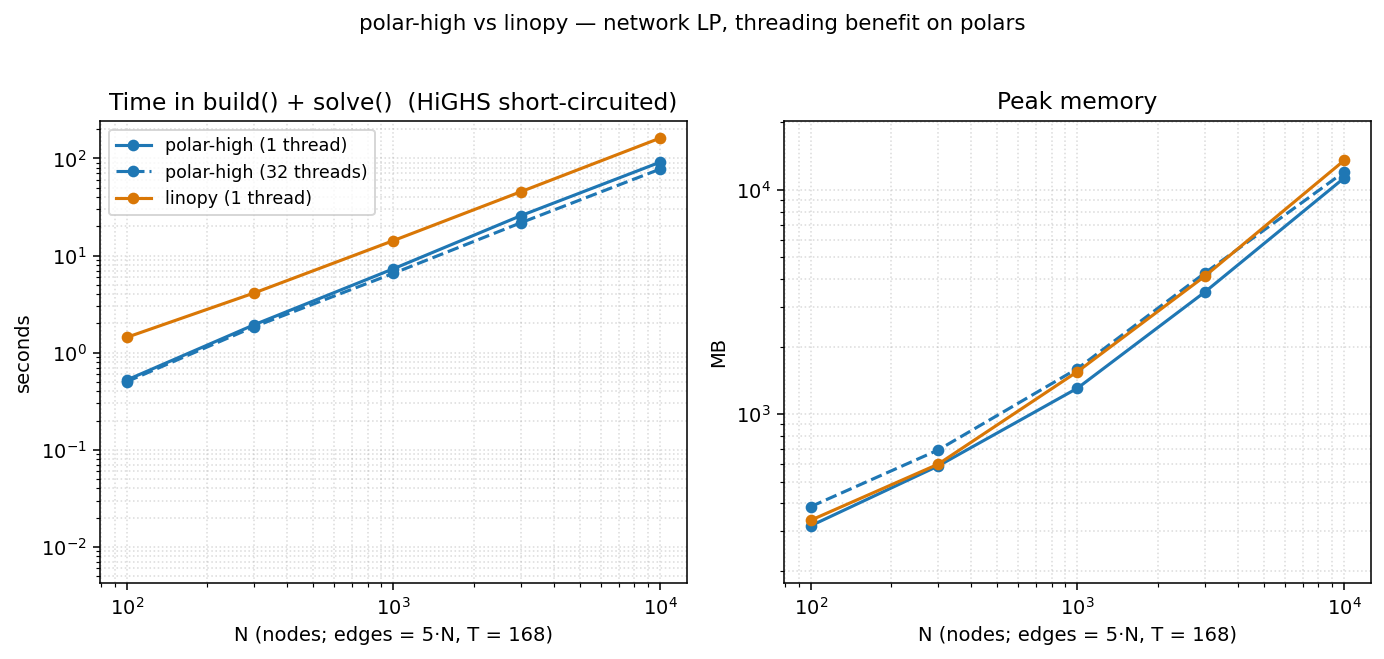
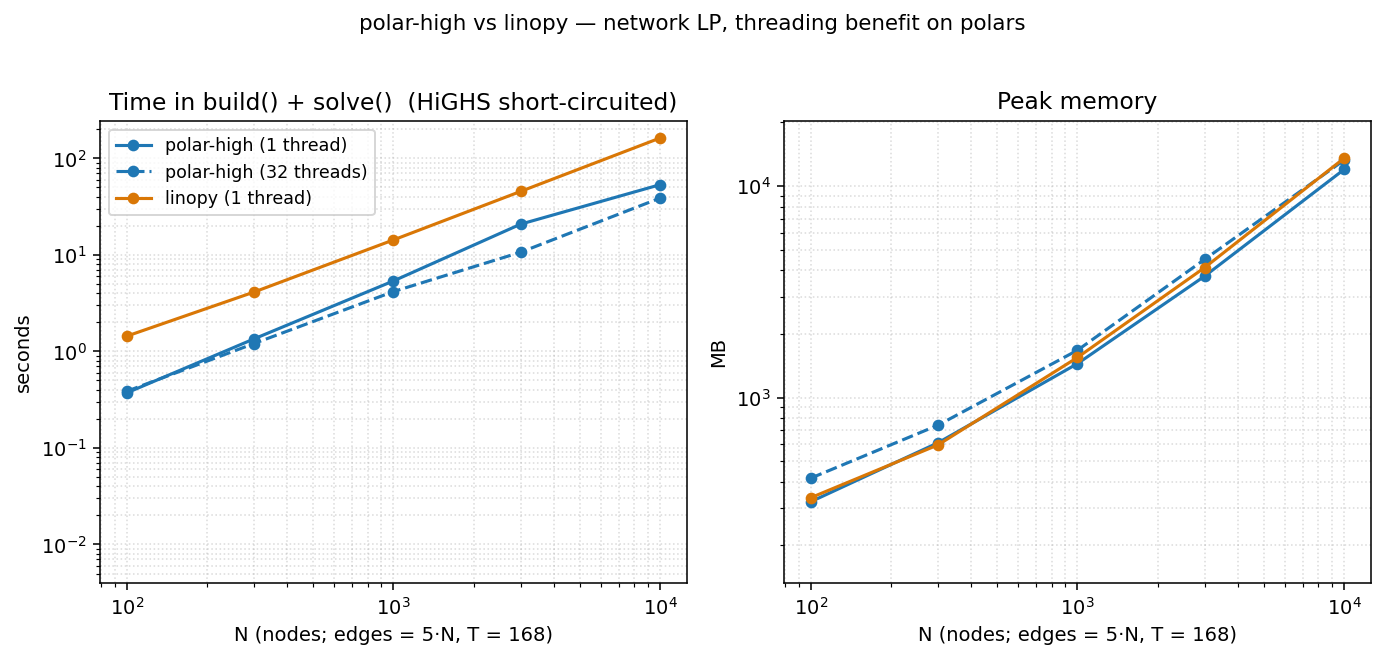
docs(benchmark): refresh page with cgroup peaks + two polar modes side-by-side
Numbers and plots reflect the v2.3.0 polar-high engine measured with
the new cgroup-instrumented harness (kernel-level memory.peak in a
per-cell systemd-run --user --scope). The framing changes:

* Headline table at N=3000 dense build-only now shows both polar
  modes (regular + save_memory) alongside linopy and Pyomo, so the
  reader sees the trade-off directly instead of choosing a "fair"
  baseline mode for the cross-tool comparison.
* Side-by-side polar-only table refreshed cell-by-cell; the prose
  now describes what the trade-off looked like at each cell rather
  than claiming any categorical "save_memory always helps" rule
  (the network N=10000 cell shows it doesn't).
* "Measuring memory" section leads with ``cgroup_peak_mb`` —
  what the OOM killer would charge against a budget — and demotes
  ``peak_rss_mb`` to a process-level / inflated-at-small-N note.
* Network LP section: both polar modes shown at N=10000, with the
  explicit observation that save_memory ends up slightly higher
  peak than regular on this cell.
* Threading table: network LP single-thread vs 32-thread numbers
  refreshed; the peak-grows-with-threads claim now uses the
  observed ~15% delta.
* Reproducing section: documents the four polar tool ids and the
  ``systemd-run --user --scope`` cgroup wrapper, including the
  automatic fallback when systemd-run isn't available.

The five PNGs are regenerated from ``benchmark/results/cgroup/*.csv``
through ``benchmark/plot.py``.

diff --git a/docs/compare/benchmark.md b/docs/compare/benchmark.md
@@ -36,18 +36,24 @@ s.t. x[i,j] - y[i,j] >= i          for i,j ∈ {1,…,N}
 Variables: `2·N²`. Constraints: `2·N²`. Closed-form optimum
 `obj = N²·(N+1)`, used as the cross-tool correctness anchor.
 
-At N=3000 (an 18 M-variable LP):
+polar-high exposes two modes that trade wall time against peak
+memory (see *Two modes* below for the mechanics); the headline
+shows both side by side. At N=3000 (an 18 M-variable LP):
 
-| | total time | peak RSS | p50 during solve | post-trim |
+| | total time | peak | p50 during solve | post-trim |
 |---|---:|---:|---:|---:|
-| polar-high (save_memory=True) | 123 s | 13.4 GB | 10.4 GB | 5.5 GB |
-| linopy (io_api="lp") | 296 s | 22.4 GB | 2.0 GB | 5.9 GB |
-| Pyomo | (caps at N=1000) | 4.6 GB at N=1000 | 3.8 GB at N=1000 | 1.8 GB at N=1000 |
+| polar-high (regular, default) | 86 s | 16.1 GB | 10.9 GB | 5.9 GB |
+| polar-high (save_memory=True) | 131 s | 15.1 GB | 10.3 GB | 6.2 GB |
+| linopy (io_api="lp") | 300 s | 23.7 GB | 2.0 GB | 6.0 GB |
+| Pyomo | caps at N=1000 | 4.6 GB at N=1000 | 3.8 GB at N=1000 | 1.9 GB at N=1000 |
 
-polar-high is roughly 2.4× faster than linopy and ~40 % lower peak
-RSS. The memory comparison depends on which column you read — see
-*Measuring memory* below for how to choose, and the *Two modes*
-section for the warm-restart trade-off this benchmark makes. Pyomo's
+Memory numbers are kernel-level `cgroup memory.peak` — the same
+accounting the OOM killer would use against a memory budget. See
+*Measuring memory* below for the column choices. Both polar modes
+finish 2.3×–3.5× faster than linopy on this column with peak ~30 %
+below linopy; on this cell the `regular` vs `save_memory` swap costs
++52 % time for −6 % peak, a much milder shape than on the full HiGHS
+solve where it's +75 % time for −26 % peak (see *Two modes*). Pyomo's
 per-coefficient Python overhead makes it unable to keep up past
 N≈1000 in our 10-minute timeout.
 
@@ -58,9 +64,7 @@ polar-high supports **warm starts** and **re-solves** off the same
 rebuilding the matrix). That capability requires retaining the
 polars / numpy source-of-truth in memory through `solve()` and after
 it returns, *and* keeping the live `Highs` instance with its basis
-across calls. linopy and Pyomo don't retain a warm-restartable LP
-source either, so for an apples-to-apples comparison this benchmark
-calls
+across calls. That's the default (`regular`) mode. The opt-out is
 
 ```python
 sol = model.solve(save_memory=True)
@@ -77,9 +81,9 @@ final `h.run()`:
    MPS file, the original `Highs` instance is cleared and disposed,
    `malloc_trim(0)` is called to return glibc's freed arenas to the
    OS, and a fresh `Highs` is created and `readModel`'d from the
-   file. This costs ~+90 s wall time at N=3000 dense but eliminates
-   the allocator slack `addRows` leaves behind when fed a model
-   incrementally — net ~5 GB lower peak in full-HiGHS-solve cells.
+   file. This costs ~+100 s wall time at N=3000 dense full-solve
+   but eliminates the allocator slack `addRows` leaves behind when
+   fed a model incrementally — net ~10 GB lower peak in that cell.
    The spill file lands in the system temp dir (`$TMPDIR` / `/tmp`)
    by default; pass `solve(save_memory=True, tmp_dir=...)` to redirect
    it to a specific volume (e.g. the same filesystem as the workspace,
@@ -104,67 +108,85 @@ free `h.run()` re-solve from the previous basis.
 
 **Side-by-side at the headline cells (polar-high only):**
 
-| cell | mode | total time | peak RSS | p50 | post-trim |
+| cell | mode | total time | peak | p50 | post-trim |
 |---|---|---:|---:|---:|---:|
-| dense build-only N=3000 | regular | 72 s | 16.3 GB | 10.6 GB | 8.9 GB |
-| dense build-only N=3000 | save_memory | 123 s | 13.4 GB | 10.4 GB | 5.5 GB |
-| dense full-solve N=3000 | regular | 121 s | 38.0 GB | 18.2 GB | 9.3 GB |
-| dense full-solve N=3000 | save_memory | 235 s | 27.8 GB | 12.7 GB | 5.5 GB |
-| network N=10000 build-only | regular | 50 s | 12.0 GB | 6.9 GB | 7.2 GB |
-| network N=10000 build-only | save_memory | 92 s | 11.0 GB | 7.0 GB | 5.4 GB |
+| dense build-only N=3000 | regular | 86 s | 16.1 GB | 10.9 GB | 5.9 GB |
+| dense build-only N=3000 | save_memory | 131 s | 15.1 GB | 10.3 GB | 6.2 GB |
+| dense full-solve N=3000 | regular | 135 s | 38.1 GB | 14.9 GB | 6.6 GB |
+| dense full-solve N=3000 | save_memory | 236 s | 28.1 GB | 12.0 GB | 5.9 GB |
+| network N=10000 build-only | regular | 53 s | 11.6 GB | 7.1 GB | 5.5 GB |
+| network N=10000 build-only | save_memory | 94 s | 12.2 GB | 6.9 GB | 5.1 GB |
 
-`save_memory=True` is consistently slower (~1.6×–1.8×) and lower
-peak (3–10 GB depending on cell). The full-solve gap is the biggest
-because the disk roundtrip resets HiGHS's allocator slack, which
-matters most when HiGHS is doing real work. Headline tables above
-use `save_memory=True` so the cross-tool comparison is between
-similar one-shot LP-handoff patterns (linopy uses its own file
-roundtrip via `io_api="lp"`).
+The trade-off shape varies cell by cell. On the dense full HiGHS
+solve the MPS disk roundtrip pays off — HiGHS's `addRows` allocator
+slack is the bulk of peak when it's doing real work, and the
+roundtrip flushes it (−26 % peak for +75 % time). On the dense
+build-only column the gap is smaller (−6 % peak for +52 % time)
+because HiGHS only allocates the matrix once before the time-limit
+short-circuit fires, so there's little slack to flush. On the
+network LP at N=10000 the disk roundtrip costs more peak than it
+saves (+5 % peak for +75 % time) — HiGHS's transient allocations
+during this build-only solve are smaller than the temporary MPS
+buffer the roundtrip allocates.
+
+The default (`regular`) gives you warm-restart capability and a
+free re-solve from the previous basis on follow-up `solve()` or
+`WarmProblem` updates, with the visible RSS retention shown above.
+`save_memory=True` opts out of that to lean on peak in cells where
+the roundtrip pays.
 
 ### Measuring memory
 
-The benchmark records four memory metrics per cell. Pick the column
-that matches the question you're asking:
+The benchmark records five memory metrics per cell. The headline
+tables use `cgroup_peak_mb`; the others answer narrower questions:
 
 | column | what it measures | when it's the right number |
 |---|---|---|
-| `peak_rss_mb` | `ru_maxrss` over the whole process | how much RAM the machine must provision so the run doesn't OOM |
+| `cgroup_peak_mb` | cgroup v2 `memory.peak` over the lifetime of the cell's subprocess (each cell wrapped in its own `systemd-run --user --scope`) | how much RAM the kernel had to back this cell — what the OOM killer would charge against a budget |
+| `peak_rss_mb` | `ru_maxrss` over the whole process | the process-level high-water mark; usually within a few % of `cgroup_peak_mb` at large N but ~30–50 % higher at small N because it double-counts shared library pages mapped into the process |
 | `rss_solve_p50_mb` | median RSS while `solve()` runs (sampled at 25 ms cadence by a sidecar thread) | steady-state working set during solve, transient setup spikes washed out |
 | `rss_solve_p95_mb` | 95th percentile of the same sampler | tail of solve-time distribution; sits between p50 and peak |
 | `rss_after_solve_trim_mb` | RSS right after `gc.collect()` + `malloc_trim(0)` once `solve()` returns | what the process actually held, with glibc's freed-but-cached arenas returned to the OS |
 
-`peak_rss_mb` is the unavoidable peak — at the moment of peak
-consumption every allocated page is in use, so `malloc_trim(0)` does not
-help there. Trim only helps after deallocation, exposing how much of
-the apparent "still used" memory was actually freed but stuck in
-glibc's per-thread arena cache. linopy is particularly heavy on
-arena churn: at N=3000 it shows ~21 GB resident immediately
-post-solve, dropping to ~6 GB after `malloc_trim(0)` — roughly 15 GB
-of glibc-retained pages that aren't really "in use" but `ru_maxrss`
-counts them anyway.
+`cgroup_peak_mb` is the right answer to "how much RAM do I need to
+provision so this doesn't OOM": it counts what the kernel actually
+charged the cgroup, not what the process happened to map. It's also
+less noisy across reps than `ru_maxrss`, which is sensitive to
+glibc's per-thread arena state and shared-library mapping order. On
+this machine the two metrics agree to within a few % at N≥1000;
+below that, `ru_maxrss` is inflated by ~80 MB of lazily-mapped
+library pages that cgroup accounting doesn't double-count.
+
+`peak_rss_mb` and `cgroup_peak_mb` are both unavoidable peaks — at
+the moment of peak consumption every allocated page is in use, so
+`malloc_trim(0)` does not help there. Trim only helps after
+deallocation, exposing how much of the apparent "still used" memory
+was actually freed but stuck in glibc's per-thread arena cache.
+linopy is particularly heavy on arena churn: at N=3000 dense
+full-solve it shows ~21 GB resident immediately post-solve, dropping
+to ~6 GB after `malloc_trim(0)` — roughly 15 GB of glibc-retained
+pages that aren't really "in use" but `ru_maxrss` counts them anyway.
 
 ### Why the memory comparison between tools depends on the column
 
-- **Peak RSS** captures any allocator-visible high-water mark,
-  including transient HiGHS-setup scratch. polar-high streams the
-  matrix family by family (each family's COO / CSR intermediates
-  are freed before the next family is built), so its peak comes in
-  below linopy's eager materialisation.
+- **cgroup peak** captures the kernel's high-water charge across
+  the whole cell, including transient HiGHS-setup scratch and the
+  matrix-assembly intermediates polar-high builds family by family.
+  This is the column to read against an RAM budget.
 - **p50 (steady-state during solve)** captures what's resident
-  during the bulk of HiGHS's time. Here linopy and polar-high (with
-  `save_memory=True`) are both low, because each tool serialises
-  the LP to a temp file before `h.run()` — linopy via `io_api="lp"`,
-  polar-high via the MPS roundtrip inside `save_memory`. The
-  Python-side polar residue is gone by the time HiGHS is in its
-  hot loop, and HiGHS's internal copy is what sits resident through
-  `h.run()`. polar-high's p50 is a couple of GB above linopy's
-  because polar-high keeps `Var.frame` metadata around for
-  `Solution.value()` lookups, while linopy retains nothing
-  Python-side after the LP file write.
-- **Post-trim** is roughly tied between the two columnar tools —
-  both tools' actual working set at end-of-solve is in the 5–6 GB
-  range at N=3000. The difference is *how much* allocator churn
-  each goes through to get there.
+  during the bulk of HiGHS's time. Here linopy is low because its
+  `io_api="lp"` path serialises the LP to a temp file and frees its
+  xarray side before `h.run()` — only HiGHS's internal sparse copy
+  remains during the hot loop. polar-high under `save_memory=True`
+  does an analogous MPS roundtrip but still keeps `Var.frame`
+  metadata for `Solution.value()` lookups, so its p50 sits a couple
+  of GB above linopy's. In `regular` mode polar-high also keeps the
+  polars source-of-truth live through the solve to enable
+  warm-restart / re-solve, which raises p50 further.
+- **Post-trim** is what the process actually holds at end-of-solve
+  with glibc's freed arenas returned to the OS. The difference
+  between this and the cgroup peak is how much allocator churn the
+  cell went through to get there.
 
 Pyomo carries each LP coefficient as a small Python expression-tree
 node (a `VarData` reference plus a multiplier inside a
@@ -190,9 +212,16 @@ python benchmark/plot.py           # writes docs/assets/benchmark*.png
 ```
 
 `benchmark/run.py` accepts `--sizes`, `--tools`, `--threads`,
-`--repeats`, `--time-limit`. Each `(tool, N)` cell runs in a fresh
-subprocess so caches and Python state don't carry over. The plot
-takes the median across reps. See
+`--repeats`, `--time-limit`. Available `--tools` include `polar`
+(regular mode, the default) and `polar_sm` (save_memory=True),
+plus `linopy` and `pyomo`; the network variants are suffixed
+`_net` (e.g. `polar_net`, `polar_sm_net`). Each `(tool, N)` cell
+runs in a fresh `systemd-run --user --scope` subprocess so
+`cgroup_peak_mb` reflects only that cell's allocations and Python
+state doesn't carry over. Falls back to plain subprocess if
+`systemd-run --user` isn't available; the cgroup column then ends
+up empty and the plots fall back to `peak_rss_mb`. The plot takes
+the median across reps. See
 [`benchmark/README.md`](https://github.com/nodal-tools/polar-high/blob/main/benchmark/README.md)
 for the methodology details.
 
@@ -217,22 +246,22 @@ thread on this LP) without a corresponding time win.
 ![threading benefit on the network LP](../assets/benchmark_threading_benefit.png){ loading=lazy }
 
 On the network LP (irregular topology, T=168, see below), polar's
-threading does start paying as N grows, and grows steadily:
+threading does start paying as N grows:
 
 | N | polar 1 thread | polar 32 threads | speedup |
 |---:|---:|---:|---:|
-| 100 | 0.52 s | 0.50 s | 1.04× |
-| 300 | 1.94 s | 1.85 s | 1.05× |
-| 1 000 | 7.31 s | 6.56 s | 1.11× |
-| 3 000 | 25.7 s | 21.7 s | 1.18× |
-| 10 000 | 91.5 s | 77.7 s | **1.18×** |
+| 100 | 0.30 s | 0.29 s | 1.06× |
+| 300 | 1.04 s | 0.86 s | 1.21× |
+| 1 000 | 3.91 s | 3.16 s | 1.24× |
+| 3 000 | 13.5 s | 10.9 s | 1.24× |
+| 10 000 | 53.8 s | 40.0 s | **1.35×** |
 
-The speedup is more modest than it was with the previous benchmark
-configuration because `save_memory=True` adds a serial step (the
-MPS file write + read for the disk roundtrip) that doesn't benefit
-from threading — Amdahl's law in action. At threads=32, polar's
-peak RSS is ~6 % higher than at threads=1 (per-thread Rayon
-scratch). The takeaway:
+The default (`regular` mode, save_memory=False) is what these
+numbers use; in `save_memory=True` the MPS write+read disk
+roundtrip is a serial step that doesn't benefit from threading
+(Amdahl's law in action) and the speedup is smaller. At threads=32,
+polar's peak grows ~15 % above threads=1 (per-thread polars/Rayon
+scratch and a wider arena footprint). The takeaway:
 
 - **Default threads=1** is the right choice for typical workloads.
   Faster *and* leaner on small/medium LPs; only modestly slower than
@@ -278,21 +307,26 @@ natural to its tool.
 
 At N=10 000 (≈ 8.4 M variables, ≈ 10 M constraints):
 
-| | total time | peak RSS | p50 during solve | post-trim |
+| | total time | peak | p50 during solve | post-trim |
 |---|---:|---:|---:|---:|
-| polar-high (save_memory=True) | 92 s | 11.0 GB | 7.0 GB | 5.4 GB |
-| linopy (io_api="lp") | 162 s | 13.2 GB | 1.6 GB | 4.0 GB |
+| polar-high (regular, default) | 53 s | 11.6 GB | 7.1 GB | 5.5 GB |
+| polar-high (save_memory=True) | 94 s | 12.2 GB | 6.9 GB | 5.1 GB |
+| linopy (io_api="lp") | 165 s | 14.1 GB | 1.6 GB | 4.0 GB |
 | Pyomo | timed out at N=3000 | — | — | — |
 
-polar wins on time (~1.8× faster) and on peak RSS (~17 % lower than
-linopy). The p50 column favours linopy because of its file-roundtrip
-trick — linopy serialises the LP to a temp file and HiGHS reads it
-back, so linopy's Python-side representation is gone by the time
-HiGHS is in its hot loop. polar-high does an analogous MPS
-roundtrip under `save_memory=True` but still keeps its `Var.frame`
-metadata for `Solution.value()` lookups — slightly more residual
-than linopy's pure file-handoff. Pyomo can't finish at this scale
-inside our 10-minute timeout.
+polar (regular) is ~3.1× faster than linopy at this cell with peak
+~18 % below linopy. `save_memory=True` doesn't help here — it ends
+up slightly *higher* on peak than `regular` and ~1.8× slower —
+because the MPS-roundtrip's transient buffer costs more than
+HiGHS's allocator slack saves on a build-only run. The p50 column
+still favours linopy because of its file-roundtrip — linopy
+serialises the LP to a temp file and HiGHS reads it back, so
+linopy's Python-side representation is gone by the time HiGHS is in
+its hot loop. polar-high under `save_memory=True` does an
+analogous MPS roundtrip but still keeps its `Var.frame` metadata
+for `Solution.value()` lookups — slightly more residual than
+linopy's pure file-handoff. Pyomo can't finish at this scale inside
+our 10-minute timeout.
 
 ## Replication: linopy's original benchmark format
 
